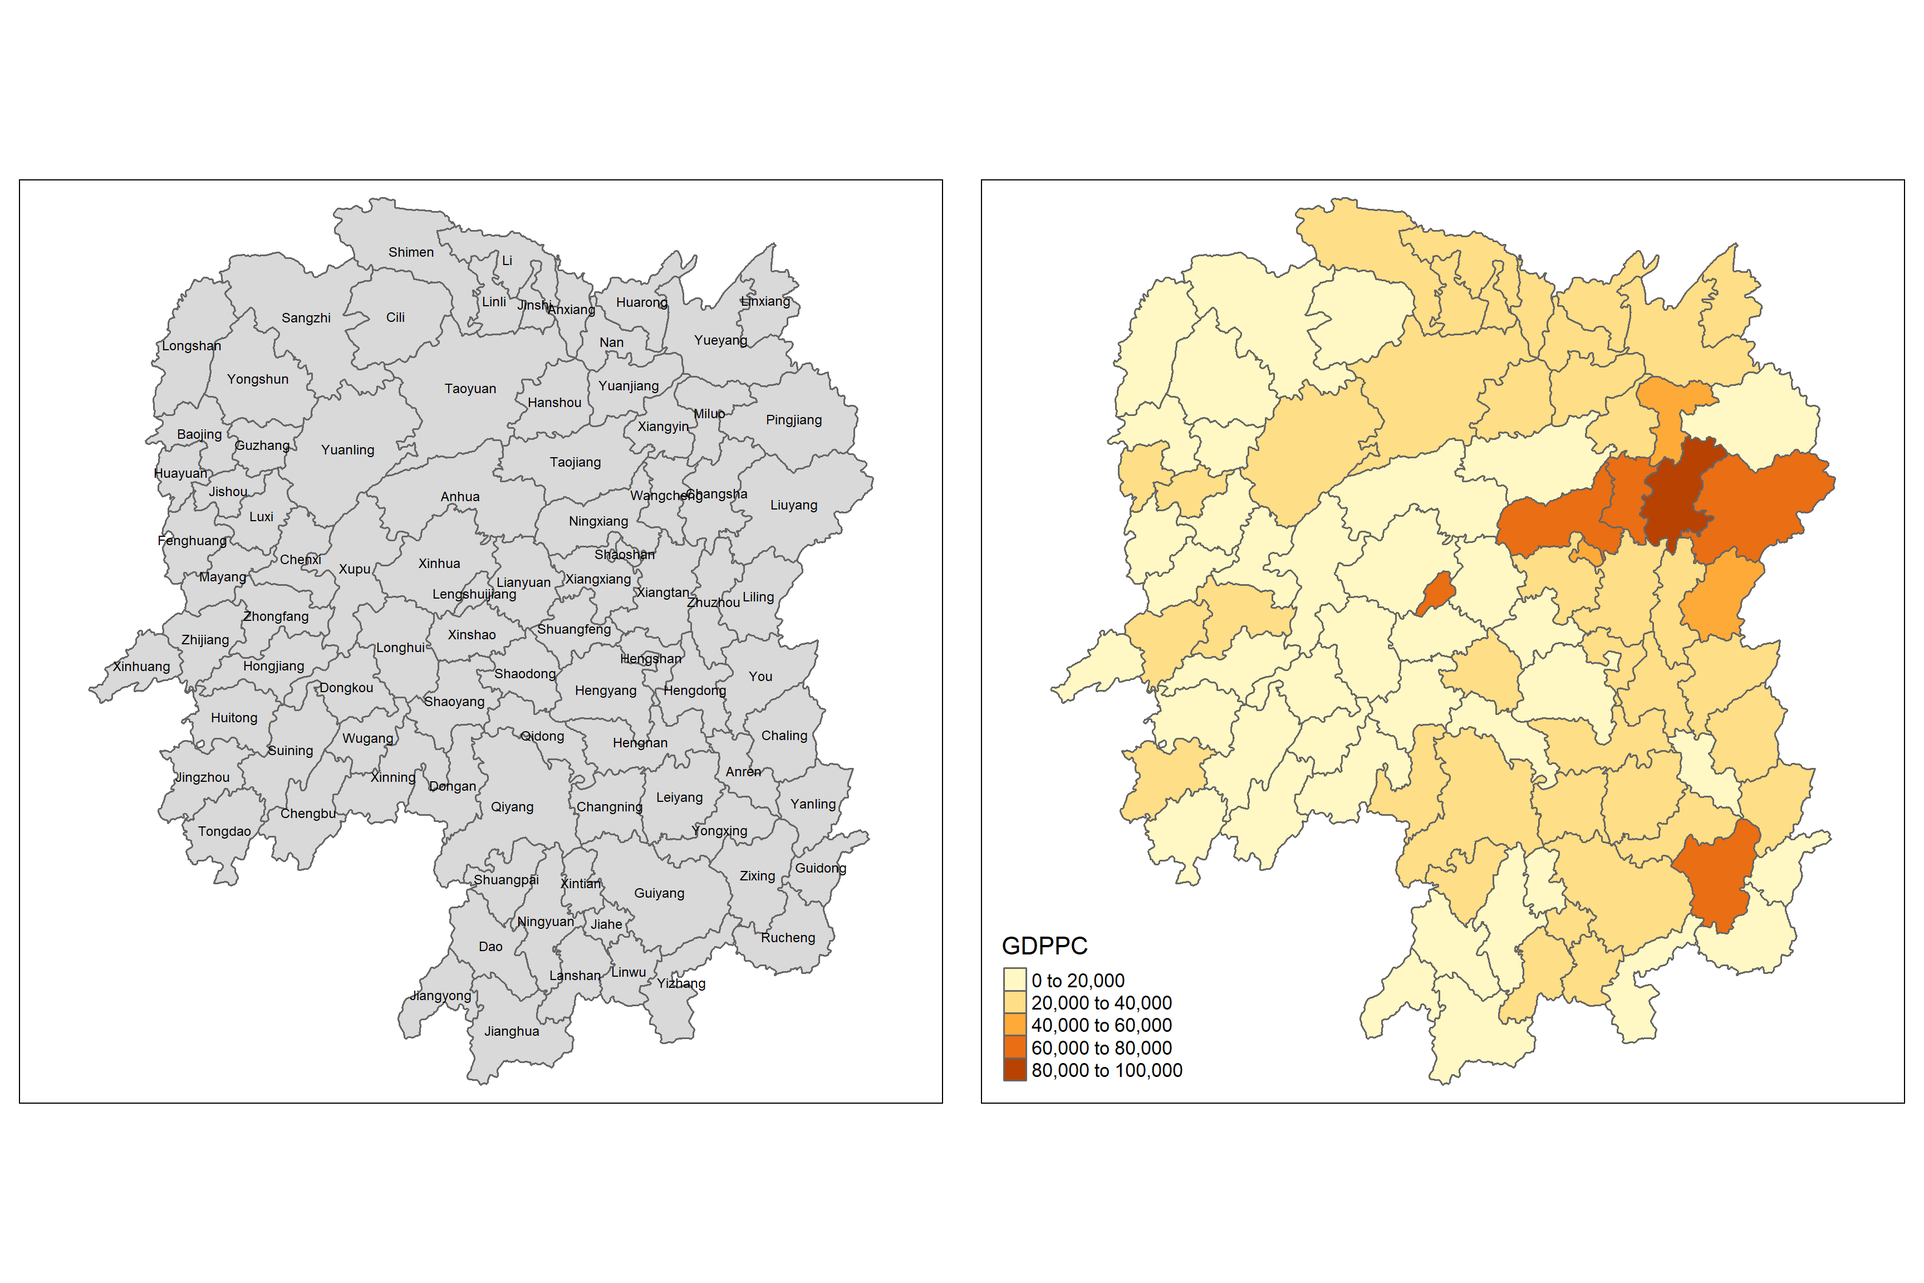
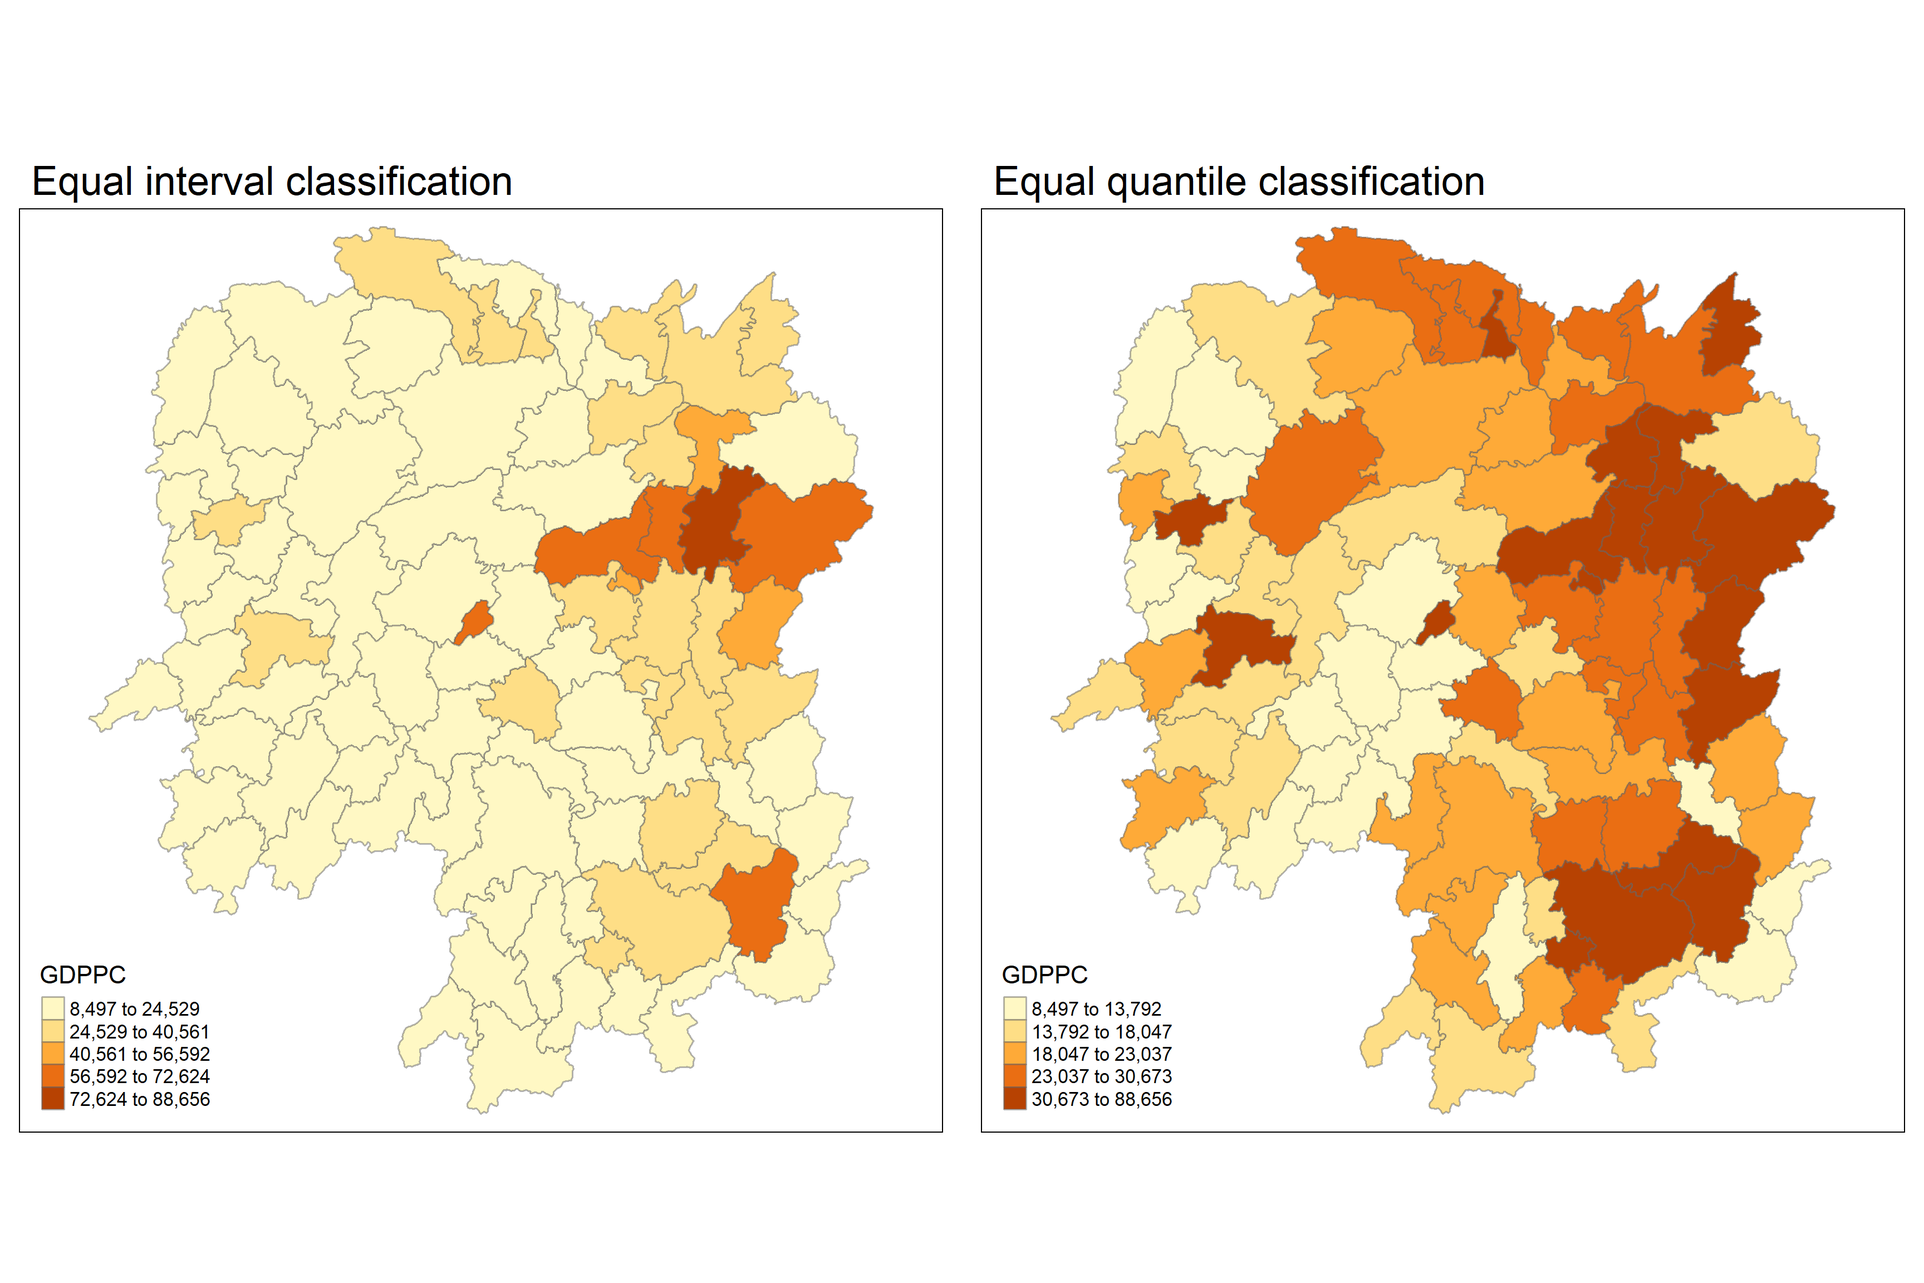
Commit the section with two choropleth maps.

diff --git a/Hands-on_Ex/Hands-on_Ex07/Hands-on_Ex07-GLSA.html b/Hands-on_Ex/Hands-on_Ex07/Hands-on_Ex07-GLSA.html
@@ -92,8 +92,8 @@ code span.wa { color: #5e5e5e; font-style: italic; } /* Warning */
 
 
   <!--  https://schema.org/Article -->
-  <meta property="article:published" itemprop="datePublished" content="2021-09-26"/>
-  <meta property="article:created" itemprop="dateCreated" content="2021-09-26"/>
+  <meta property="article:published" itemprop="datePublished" content="2021-09-27"/>
+  <meta property="article:created" itemprop="dateCreated" content="2021-09-27"/>
   <meta name="article:author" content="Dr. Kam Tin Seong, Associate Professor of Information Systems (Practice)"/>
 
   <!--  https://developers.facebook.com/docs/sharing/webmasters#markup -->
@@ -111,7 +111,7 @@ code span.wa { color: #5e5e5e; font-style: italic; } /* Warning */
   <!--radix_placeholder_rmarkdown_metadata-->
 
   <script type="text/json" id="radix-rmarkdown-metadata">
-  {"type":"list","attributes":{"names":{"type":"character","attributes":{},"value":["title","description","author","date","output"]}},"value":[{"type":"character","attributes":{},"value":["Hands-on Exercise 7: Global and Local Measures of Spatial Autocorrelation"]},{"type":"character","attributes":{},"value":["In this hands-on exercise, you will learn how to compute Global and Local Measures of Spatial Autocorrelation by using spdep package."]},{"type":"list","attributes":{},"value":[{"type":"list","attributes":{"names":{"type":"character","attributes":{},"value":["name","url","affiliation","affiliation_url"]}},"value":[{"type":"character","attributes":{},"value":["Dr. Kam Tin Seong, Associate Professor of Information Systems (Practice)"]},{"type":"character","attributes":{},"value":["https://www.smu.edu.sg/faculty/profile/9618/KAM-Tin-Seong"]},{"type":"character","attributes":{},"value":["School of Computing and Information Systems, Singapore Management University"]},{"type":"character","attributes":{},"value":["https://scis.smu.edu.sg/"]}]}]},{"type":"character","attributes":{},"value":["2021-09-26"]},{"type":"list","attributes":{"names":{"type":"character","attributes":{},"value":["distill::distill_article"]}},"value":[{"type":"list","attributes":{"names":{"type":"character","attributes":{},"value":["code_folding","toc","toc_depth","self_contained"]}},"value":[{"type":"logical","attributes":{},"value":[false]},{"type":"logical","attributes":{},"value":[true]},{"type":"integer","attributes":{},"value":[4]},{"type":"logical","attributes":{},"value":[false]}]}]}]}
+  {"type":"list","attributes":{"names":{"type":"character","attributes":{},"value":["title","description","author","date","output"]}},"value":[{"type":"character","attributes":{},"value":["Hands-on Exercise 7: Global and Local Measures of Spatial Autocorrelation"]},{"type":"character","attributes":{},"value":["In this hands-on exercise, you will learn how to compute Global and Local Measures of Spatial Autocorrelation by using spdep package."]},{"type":"list","attributes":{},"value":[{"type":"list","attributes":{"names":{"type":"character","attributes":{},"value":["name","url","affiliation","affiliation_url"]}},"value":[{"type":"character","attributes":{},"value":["Dr. Kam Tin Seong, Associate Professor of Information Systems (Practice)"]},{"type":"character","attributes":{},"value":["https://www.smu.edu.sg/faculty/profile/9618/KAM-Tin-Seong"]},{"type":"character","attributes":{},"value":["School of Computing and Information Systems, Singapore Management University"]},{"type":"character","attributes":{},"value":["https://scis.smu.edu.sg/"]}]}]},{"type":"character","attributes":{},"value":["2021-09-27"]},{"type":"list","attributes":{"names":{"type":"character","attributes":{},"value":["distill::distill_article"]}},"value":[{"type":"list","attributes":{"names":{"type":"character","attributes":{},"value":["code_folding","toc","toc_depth","self_contained"]}},"value":[{"type":"logical","attributes":{},"value":[false]},{"type":"logical","attributes":{},"value":[true]},{"type":"integer","attributes":{},"value":[4]},{"type":"logical","attributes":{},"value":[false]}]}]}]}
   </script>
   <!--/radix_placeholder_rmarkdown_metadata-->
   
@@ -1455,7 +1455,7 @@ code span.wa { color: #5e5e5e; font-style: italic; } /* Warning */
 <!--radix_placeholder_front_matter-->
 
 <script id="distill-front-matter" type="text/json">
-{"title":"Hands-on Exercise 7: Global and Local Measures of Spatial Autocorrelation","description":"In this hands-on exercise, you will learn how to compute Global and Local Measures of Spatial Autocorrelation by using spdep package.","authors":[{"author":"Dr. Kam Tin Seong, Associate Professor of Information Systems (Practice)","authorURL":"https://www.smu.edu.sg/faculty/profile/9618/KAM-Tin-Seong","affiliation":"School of Computing and Information Systems, Singapore Management University","affiliationURL":"https://scis.smu.edu.sg/","orcidID":""}],"publishedDate":"2021-09-26T00:00:00.000+08:00","citationText":"(Practice), 2021"}
+{"title":"Hands-on Exercise 7: Global and Local Measures of Spatial Autocorrelation","description":"In this hands-on exercise, you will learn how to compute Global and Local Measures of Spatial Autocorrelation by using spdep package.","authors":[{"author":"Dr. Kam Tin Seong, Associate Professor of Information Systems (Practice)","authorURL":"https://www.smu.edu.sg/faculty/profile/9618/KAM-Tin-Seong","affiliation":"School of Computing and Information Systems, Singapore Management University","affiliationURL":"https://scis.smu.edu.sg/","orcidID":""}],"publishedDate":"2021-09-27T00:00:00.000+08:00","citationText":"(Practice), 2021"}
 </script>
 
 <!--/radix_placeholder_front_matter-->
@@ -1474,7 +1474,7 @@ code span.wa { color: #5e5e5e; font-style: italic; } /* Warning */
 <div class="d-byline">
   Dr. Kam Tin Seong, Associate Professor of Information Systems (Practice) <a href="https://www.smu.edu.sg/faculty/profile/9618/KAM-Tin-Seong" class="uri">https://www.smu.edu.sg/faculty/profile/9618/KAM-Tin-Seong</a> (School of Computing and Information Systems, Singapore Management University)<a href="https://scis.smu.edu.sg/" class="uri">https://scis.smu.edu.sg/</a>
   
-<br/>2021-09-26
+<br/>2021-09-27
 </div>
 
 <div class="d-article">
@@ -1651,12 +1651,21 @@ Geodetic CRS:  WGS 84</code></pre>
 <p>Now, we are going to prepare a basemap and a choropleth map showing the distribution of GDPPC 2012 by using <em>qtm()</em> of <strong>tmap</strong> package.</p>
 <div class="layout-chunk" data-layout="l-body">
 <div class="sourceCode">
-<pre class="sourceCode r"><code class="sourceCode r"><span class='va'>basemap</span> <span class='op'>&lt;-</span> <span class='fu'>tm_shape</span><span class='op'>(</span><span class='va'>hunan</span><span class='op'>)</span> <span class='op'>+</span>
-  <span class='fu'>tm_polygons</span><span class='op'>(</span><span class='op'>)</span> <span class='op'>+</span>
-  <span class='fu'>tm_text</span><span class='op'>(</span><span class='st'>"NAME_3"</span>, size<span class='op'>=</span><span class='fl'>0.5</span><span class='op'>)</span>
+<pre class="sourceCode r"><code class="sourceCode r"><span class='va'>equal</span> <span class='op'>&lt;-</span> <span class='fu'>tm_shape</span><span class='op'>(</span><span class='va'>hunan</span><span class='op'>)</span> <span class='op'>+</span>
+  <span class='fu'>tm_fill</span><span class='op'>(</span><span class='st'>"GDPPC"</span>,
+          n <span class='op'>=</span> <span class='fl'>5</span>,
+          style <span class='op'>=</span> <span class='st'>"equal"</span><span class='op'>)</span> <span class='op'>+</span>
+  <span class='fu'>tm_borders</span><span class='op'>(</span>alpha <span class='op'>=</span> <span class='fl'>0.5</span><span class='op'>)</span> <span class='op'>+</span>
+  <span class='fu'>tm_layout</span><span class='op'>(</span>main.title <span class='op'>=</span> <span class='st'>"Equal interval classification"</span><span class='op'>)</span>
 
-<span class='va'>gdppc</span> <span class='op'>&lt;-</span> <span class='fu'>qtm</span><span class='op'>(</span><span class='va'>hunan</span>, <span class='st'>"GDPPC"</span><span class='op'>)</span>
-<span class='fu'>tmap_arrange</span><span class='op'>(</span><span class='va'>basemap</span>, <span class='va'>gdppc</span>, asp<span class='op'>=</span><span class='fl'>1</span>, ncol<span class='op'>=</span><span class='fl'>2</span><span class='op'>)</span>
+<span class='va'>quantile</span> <span class='op'>&lt;-</span> <span class='fu'>tm_shape</span><span class='op'>(</span><span class='va'>hunan</span><span class='op'>)</span> <span class='op'>+</span>
+  <span class='fu'>tm_fill</span><span class='op'>(</span><span class='st'>"GDPPC"</span>,
+          n <span class='op'>=</span> <span class='fl'>5</span>,
+          style <span class='op'>=</span> <span class='st'>"quantile"</span><span class='op'>)</span> <span class='op'>+</span>
+  <span class='fu'>tm_borders</span><span class='op'>(</span>alpha <span class='op'>=</span> <span class='fl'>0.5</span><span class='op'>)</span> <span class='op'>+</span>
+  <span class='fu'>tm_layout</span><span class='op'>(</span>main.title <span class='op'>=</span> <span class='st'>"Equal quantile classification"</span><span class='op'>)</span>
+
+<span class='fu'>tmap_arrange</span><span class='op'>(</span><span class='va'>equal</span>, <span class='va'>quantile</span>, asp<span class='op'>=</span><span class='fl'>1</span>, ncol<span class='op'>=</span><span class='fl'>2</span><span class='op'>)</span>
 </code></pre>
 </div>
 <p><img src="Hands-on_Ex07-GLSA_files/figure-html5/unnamed-chunk-5-1.png" width="1152" /></p>

diff --git a/_site/Hands-on_Ex/Hands-on_Ex07/Hands-on_Ex07-GLSA.html b/_site/Hands-on_Ex/Hands-on_Ex07/Hands-on_Ex07-GLSA.html
@@ -92,8 +92,8 @@ code span.wa { color: #5e5e5e; font-style: italic; } /* Warning */
 
 
   <!--  https://schema.org/Article -->
-  <meta property="article:published" itemprop="datePublished" content="2021-09-26"/>
-  <meta property="article:created" itemprop="dateCreated" content="2021-09-26"/>
+  <meta property="article:published" itemprop="datePublished" content="2021-09-27"/>
+  <meta property="article:created" itemprop="dateCreated" content="2021-09-27"/>
   <meta name="article:author" content="Dr. Kam Tin Seong, Associate Professor of Information Systems (Practice)"/>
 
   <!--  https://developers.facebook.com/docs/sharing/webmasters#markup -->
@@ -111,7 +111,7 @@ code span.wa { color: #5e5e5e; font-style: italic; } /* Warning */
   <!--radix_placeholder_rmarkdown_metadata-->
 
   <script type="text/json" id="radix-rmarkdown-metadata">
-  {"type":"list","attributes":{"names":{"type":"character","attributes":{},"value":["title","description","author","date","output"]}},"value":[{"type":"character","attributes":{},"value":["Hands-on Exercise 7: Global and Local Measures of Spatial Autocorrelation"]},{"type":"character","attributes":{},"value":["In this hands-on exercise, you will learn how to compute Global and Local Measures of Spatial Autocorrelation by using spdep package."]},{"type":"list","attributes":{},"value":[{"type":"list","attributes":{"names":{"type":"character","attributes":{},"value":["name","url","affiliation","affiliation_url"]}},"value":[{"type":"character","attributes":{},"value":["Dr. Kam Tin Seong, Associate Professor of Information Systems (Practice)"]},{"type":"character","attributes":{},"value":["https://www.smu.edu.sg/faculty/profile/9618/KAM-Tin-Seong"]},{"type":"character","attributes":{},"value":["School of Computing and Information Systems, Singapore Management University"]},{"type":"character","attributes":{},"value":["https://scis.smu.edu.sg/"]}]}]},{"type":"character","attributes":{},"value":["2021-09-26"]},{"type":"list","attributes":{"names":{"type":"character","attributes":{},"value":["distill::distill_article"]}},"value":[{"type":"list","attributes":{"names":{"type":"character","attributes":{},"value":["code_folding","toc","toc_depth","self_contained"]}},"value":[{"type":"logical","attributes":{},"value":[false]},{"type":"logical","attributes":{},"value":[true]},{"type":"integer","attributes":{},"value":[4]},{"type":"logical","attributes":{},"value":[false]}]}]}]}
+  {"type":"list","attributes":{"names":{"type":"character","attributes":{},"value":["title","description","author","date","output"]}},"value":[{"type":"character","attributes":{},"value":["Hands-on Exercise 7: Global and Local Measures of Spatial Autocorrelation"]},{"type":"character","attributes":{},"value":["In this hands-on exercise, you will learn how to compute Global and Local Measures of Spatial Autocorrelation by using spdep package."]},{"type":"list","attributes":{},"value":[{"type":"list","attributes":{"names":{"type":"character","attributes":{},"value":["name","url","affiliation","affiliation_url"]}},"value":[{"type":"character","attributes":{},"value":["Dr. Kam Tin Seong, Associate Professor of Information Systems (Practice)"]},{"type":"character","attributes":{},"value":["https://www.smu.edu.sg/faculty/profile/9618/KAM-Tin-Seong"]},{"type":"character","attributes":{},"value":["School of Computing and Information Systems, Singapore Management University"]},{"type":"character","attributes":{},"value":["https://scis.smu.edu.sg/"]}]}]},{"type":"character","attributes":{},"value":["2021-09-27"]},{"type":"list","attributes":{"names":{"type":"character","attributes":{},"value":["distill::distill_article"]}},"value":[{"type":"list","attributes":{"names":{"type":"character","attributes":{},"value":["code_folding","toc","toc_depth","self_contained"]}},"value":[{"type":"logical","attributes":{},"value":[false]},{"type":"logical","attributes":{},"value":[true]},{"type":"integer","attributes":{},"value":[4]},{"type":"logical","attributes":{},"value":[false]}]}]}]}
   </script>
   <!--/radix_placeholder_rmarkdown_metadata-->
   
@@ -1455,7 +1455,7 @@ code span.wa { color: #5e5e5e; font-style: italic; } /* Warning */
 <!--radix_placeholder_front_matter-->
 
 <script id="distill-front-matter" type="text/json">
-{"title":"Hands-on Exercise 7: Global and Local Measures of Spatial Autocorrelation","description":"In this hands-on exercise, you will learn how to compute Global and Local Measures of Spatial Autocorrelation by using spdep package.","authors":[{"author":"Dr. Kam Tin Seong, Associate Professor of Information Systems (Practice)","authorURL":"https://www.smu.edu.sg/faculty/profile/9618/KAM-Tin-Seong","affiliation":"School of Computing and Information Systems, Singapore Management University","affiliationURL":"https://scis.smu.edu.sg/","orcidID":""}],"publishedDate":"2021-09-26T00:00:00.000+08:00","citationText":"(Practice), 2021"}
+{"title":"Hands-on Exercise 7: Global and Local Measures of Spatial Autocorrelation","description":"In this hands-on exercise, you will learn how to compute Global and Local Measures of Spatial Autocorrelation by using spdep package.","authors":[{"author":"Dr. Kam Tin Seong, Associate Professor of Information Systems (Practice)","authorURL":"https://www.smu.edu.sg/faculty/profile/9618/KAM-Tin-Seong","affiliation":"School of Computing and Information Systems, Singapore Management University","affiliationURL":"https://scis.smu.edu.sg/","orcidID":""}],"publishedDate":"2021-09-27T00:00:00.000+08:00","citationText":"(Practice), 2021"}
 </script>
 
 <!--/radix_placeholder_front_matter-->
@@ -1474,7 +1474,7 @@ code span.wa { color: #5e5e5e; font-style: italic; } /* Warning */
 <div class="d-byline">
   Dr. Kam Tin Seong, Associate Professor of Information Systems (Practice) <a href="https://www.smu.edu.sg/faculty/profile/9618/KAM-Tin-Seong" class="uri">https://www.smu.edu.sg/faculty/profile/9618/KAM-Tin-Seong</a> (School of Computing and Information Systems, Singapore Management University)<a href="https://scis.smu.edu.sg/" class="uri">https://scis.smu.edu.sg/</a>
   
-<br/>2021-09-26
+<br/>2021-09-27
 </div>
 
 <div class="d-article">
@@ -1651,12 +1651,21 @@ Geodetic CRS:  WGS 84</code></pre>
 <p>Now, we are going to prepare a basemap and a choropleth map showing the distribution of GDPPC 2012 by using <em>qtm()</em> of <strong>tmap</strong> package.</p>
 <div class="layout-chunk" data-layout="l-body">
 <div class="sourceCode">
-<pre class="sourceCode r"><code class="sourceCode r"><span class='va'>basemap</span> <span class='op'>&lt;-</span> <span class='fu'>tm_shape</span><span class='op'>(</span><span class='va'>hunan</span><span class='op'>)</span> <span class='op'>+</span>
-  <span class='fu'>tm_polygons</span><span class='op'>(</span><span class='op'>)</span> <span class='op'>+</span>
-  <span class='fu'>tm_text</span><span class='op'>(</span><span class='st'>"NAME_3"</span>, size<span class='op'>=</span><span class='fl'>0.5</span><span class='op'>)</span>
+<pre class="sourceCode r"><code class="sourceCode r"><span class='va'>equal</span> <span class='op'>&lt;-</span> <span class='fu'>tm_shape</span><span class='op'>(</span><span class='va'>hunan</span><span class='op'>)</span> <span class='op'>+</span>
+  <span class='fu'>tm_fill</span><span class='op'>(</span><span class='st'>"GDPPC"</span>,
+          n <span class='op'>=</span> <span class='fl'>5</span>,
+          style <span class='op'>=</span> <span class='st'>"equal"</span><span class='op'>)</span> <span class='op'>+</span>
+  <span class='fu'>tm_borders</span><span class='op'>(</span>alpha <span class='op'>=</span> <span class='fl'>0.5</span><span class='op'>)</span> <span class='op'>+</span>
+  <span class='fu'>tm_layout</span><span class='op'>(</span>main.title <span class='op'>=</span> <span class='st'>"Equal interval classification"</span><span class='op'>)</span>
 
-<span class='va'>gdppc</span> <span class='op'>&lt;-</span> <span class='fu'>qtm</span><span class='op'>(</span><span class='va'>hunan</span>, <span class='st'>"GDPPC"</span><span class='op'>)</span>
-<span class='fu'>tmap_arrange</span><span class='op'>(</span><span class='va'>basemap</span>, <span class='va'>gdppc</span>, asp<span class='op'>=</span><span class='fl'>1</span>, ncol<span class='op'>=</span><span class='fl'>2</span><span class='op'>)</span>
+<span class='va'>quantile</span> <span class='op'>&lt;-</span> <span class='fu'>tm_shape</span><span class='op'>(</span><span class='va'>hunan</span><span class='op'>)</span> <span class='op'>+</span>
+  <span class='fu'>tm_fill</span><span class='op'>(</span><span class='st'>"GDPPC"</span>,
+          n <span class='op'>=</span> <span class='fl'>5</span>,
+          style <span class='op'>=</span> <span class='st'>"quantile"</span><span class='op'>)</span> <span class='op'>+</span>
+  <span class='fu'>tm_borders</span><span class='op'>(</span>alpha <span class='op'>=</span> <span class='fl'>0.5</span><span class='op'>)</span> <span class='op'>+</span>
+  <span class='fu'>tm_layout</span><span class='op'>(</span>main.title <span class='op'>=</span> <span class='st'>"Equal quantile classification"</span><span class='op'>)</span>
+
+<span class='fu'>tmap_arrange</span><span class='op'>(</span><span class='va'>equal</span>, <span class='va'>quantile</span>, asp<span class='op'>=</span><span class='fl'>1</span>, ncol<span class='op'>=</span><span class='fl'>2</span><span class='op'>)</span>
 </code></pre>
 </div>
 <p><img src="Hands-on_Ex07-GLSA_files/figure-html5/unnamed-chunk-5-1.png" width="1152" /></p>
